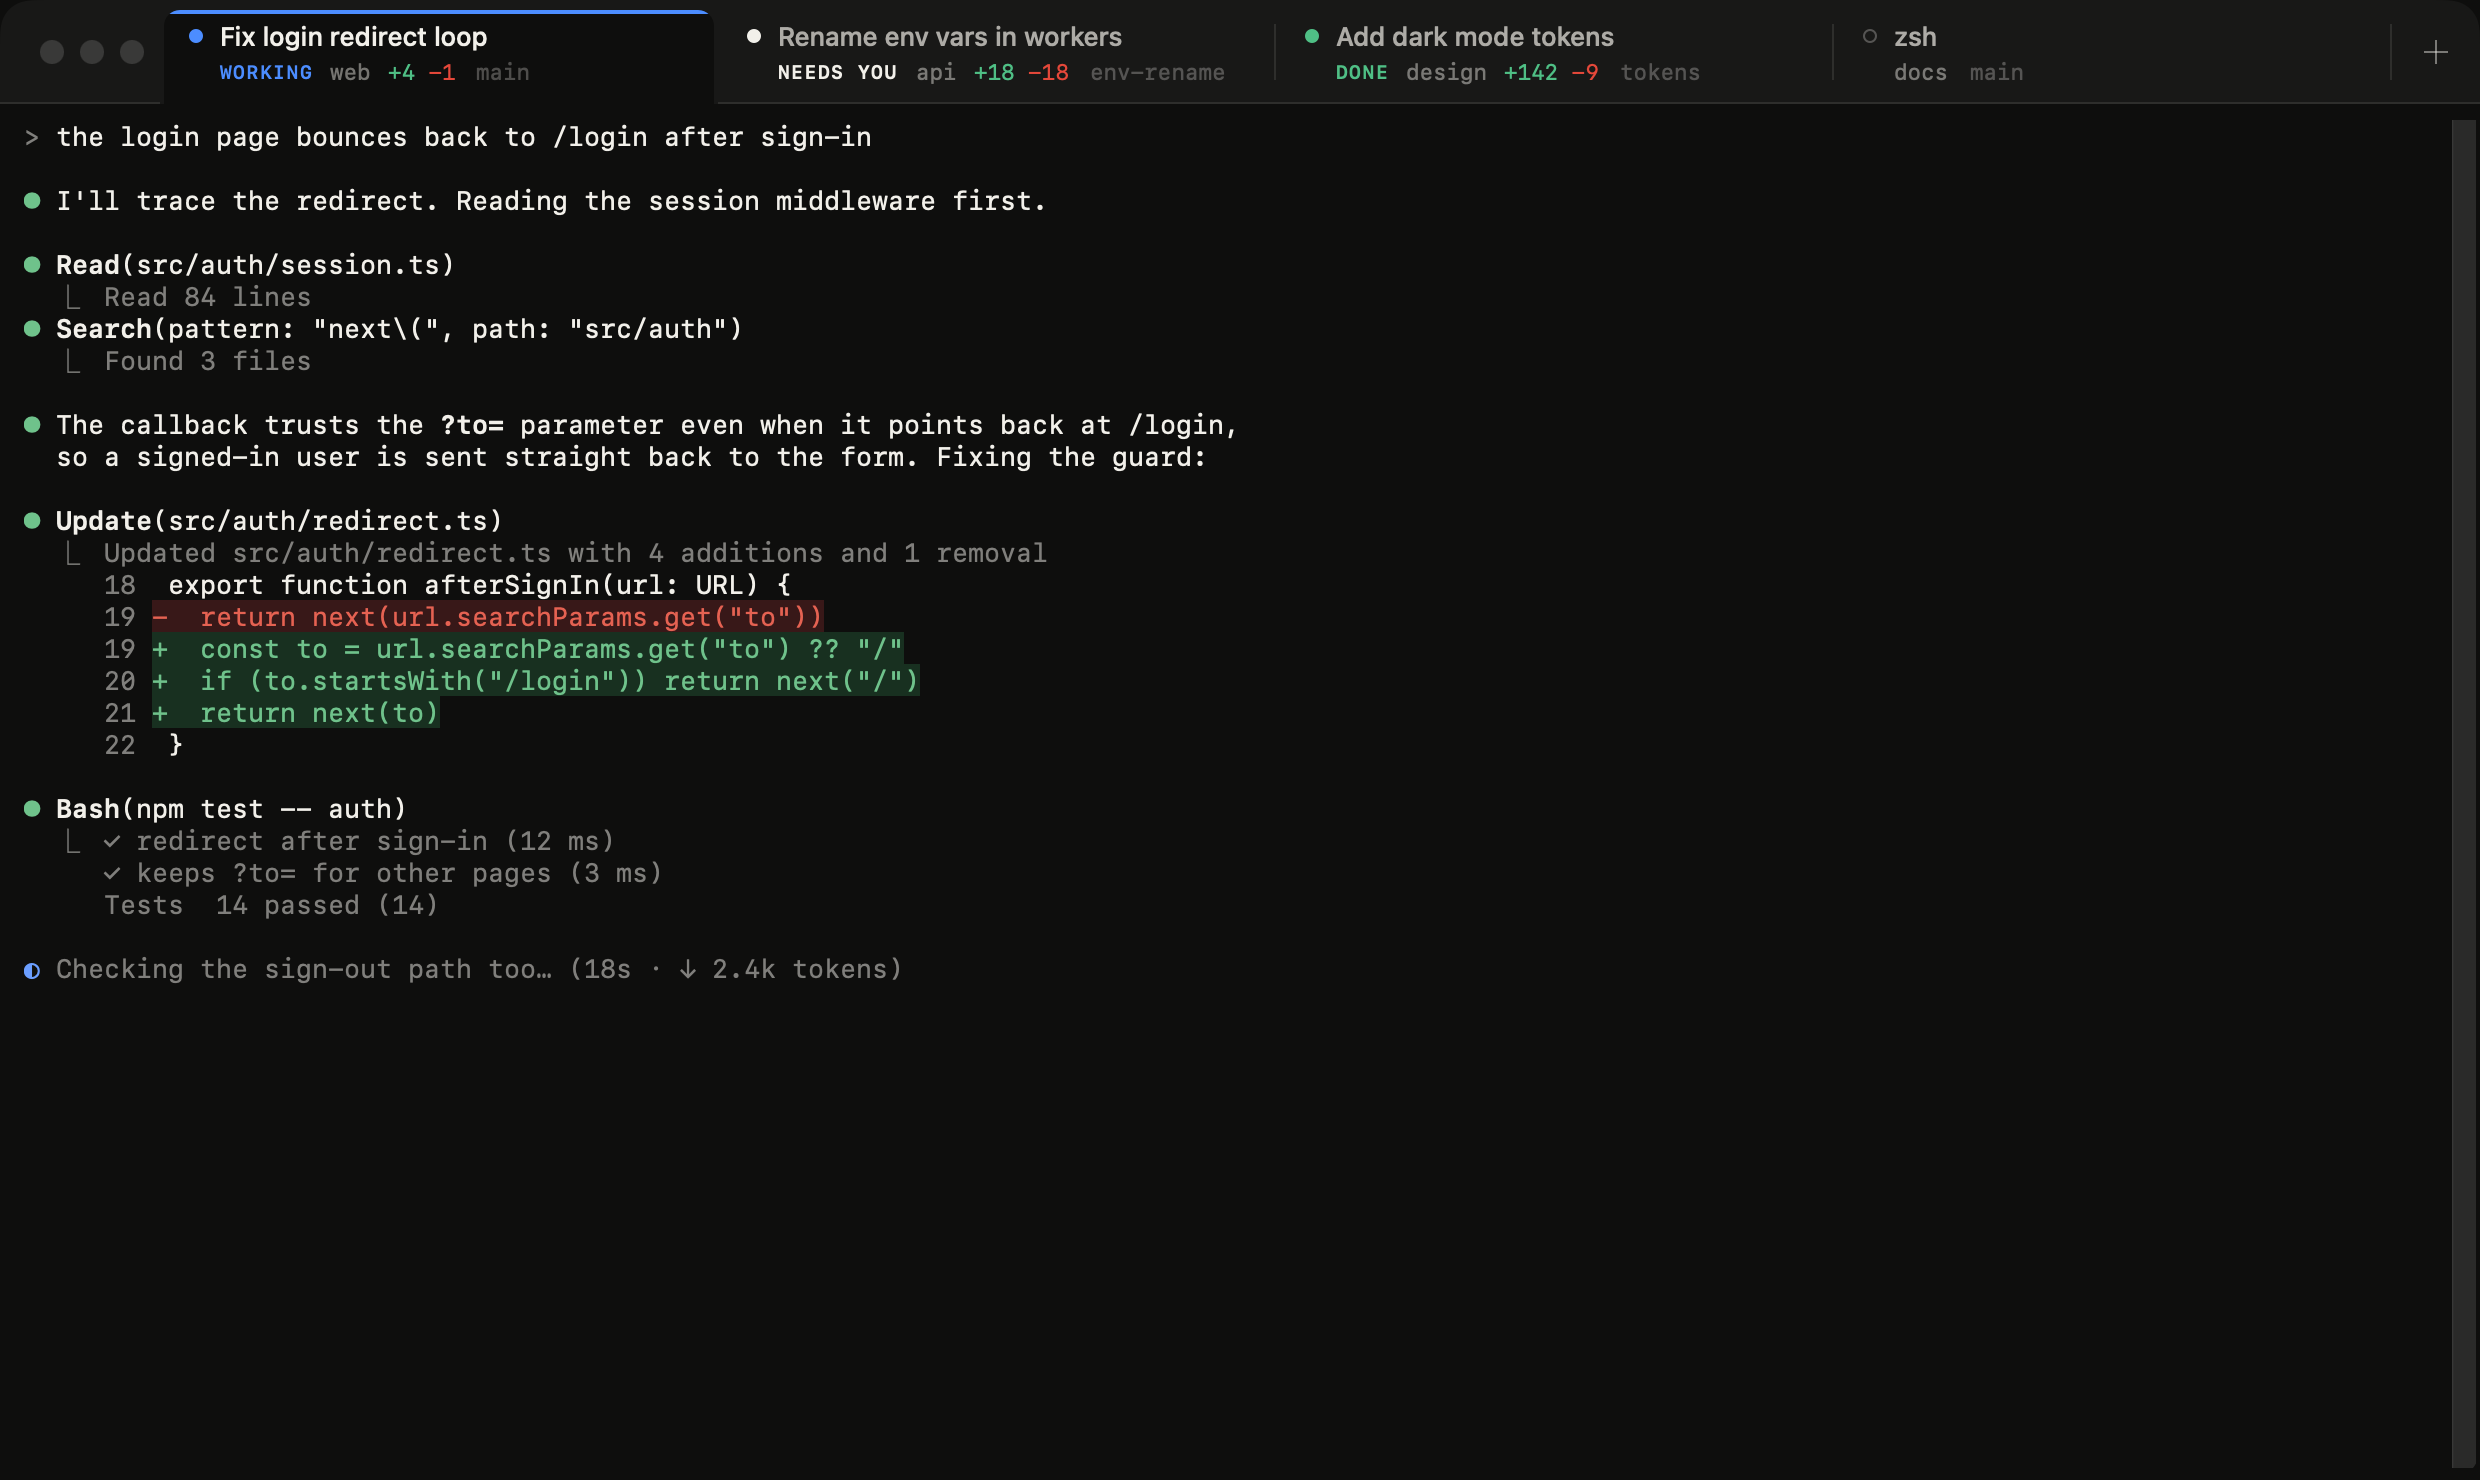
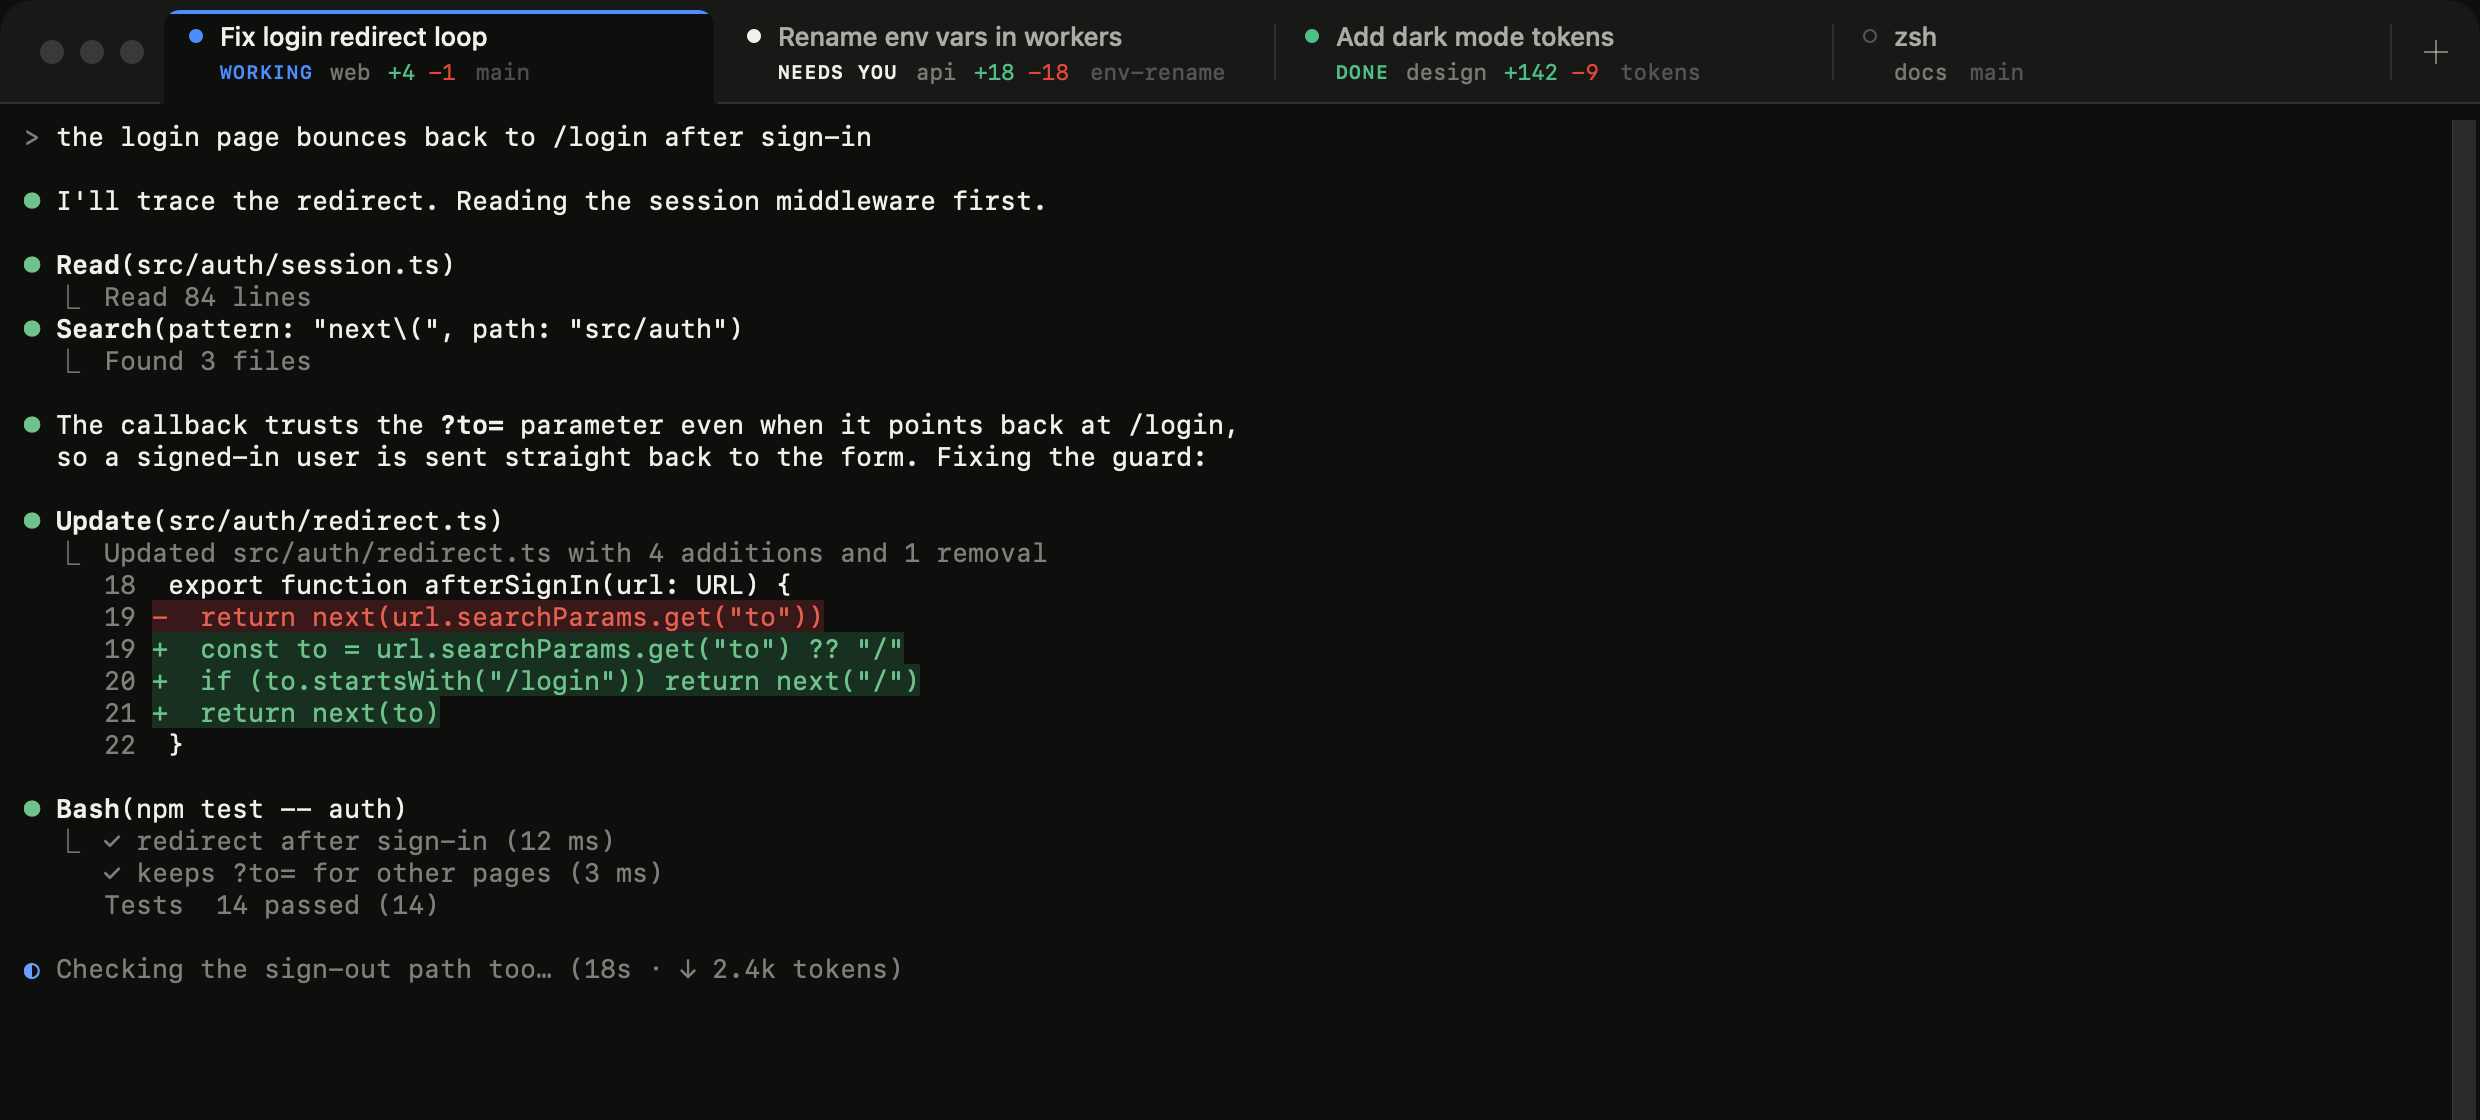
fix(site): versioned stylesheet so cached CSS can't mismatch the page; crop the screenshot

diff --git a/site/index.html b/site/index.html
@@ -18,7 +18,7 @@
   <link rel="preconnect" href="https://fonts.googleapis.com">
   <link rel="preconnect" href="https://fonts.gstatic.com" crossorigin>
   <link rel="stylesheet" href="https://fonts.googleapis.com/css2?family=Geist:wght@400;500;600&family=Geist+Mono:wght@400;500&family=Newsreader:ital,opsz,wght@0,6..72,400;1,6..72,400&display=swap">
-  <link rel="stylesheet" href="/styles.css">
+  <link rel="stylesheet" href="/styles.css?v=0.2.1">
   <script defer src="https://analytics.n3el.dev/p.js"></script>
 </head>
 <body>
@@ -42,7 +42,7 @@
     </section>
 
     <figure class="shot wrap">
-      <img src="/agterm-window.png" width="1240" height="740"
+      <img src="/agterm-window.png?v=0.2.1" width="1240" height="560"
            alt="The agterm window: four tabs. Fix login redirect loop is working in web, +4 −1. Rename env vars in workers needs you in api, +18 −18. Add dark mode tokens is done in design, +142 −9. The selected tab shows a Claude Code session fixing a redirect.">
       <figcaption>The app itself, rendered from a real window. Each diff is what changed since that agent started, measured with git.</figcaption>
     </figure>
